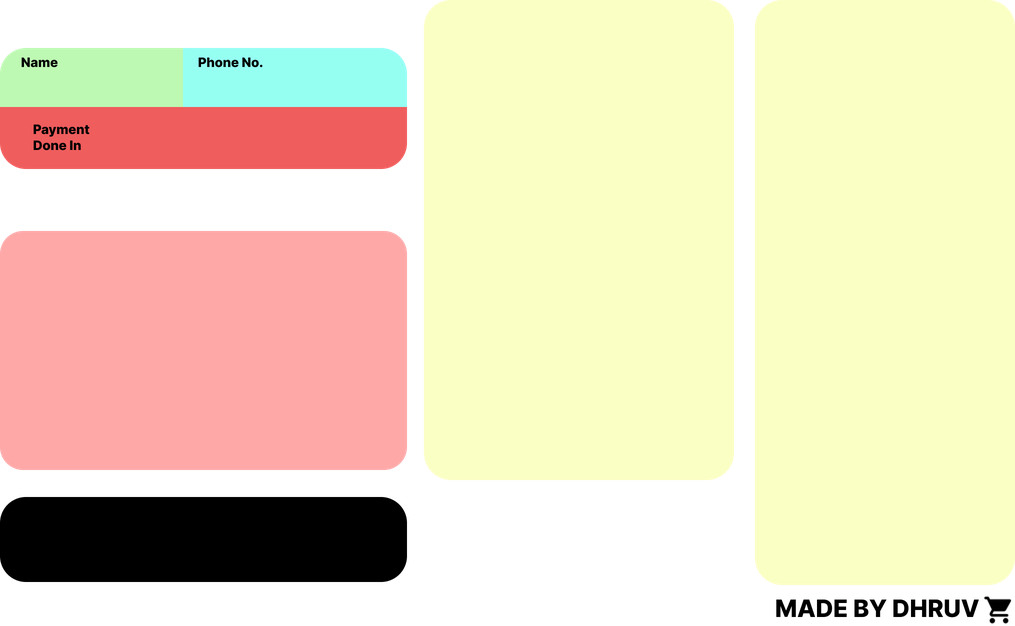
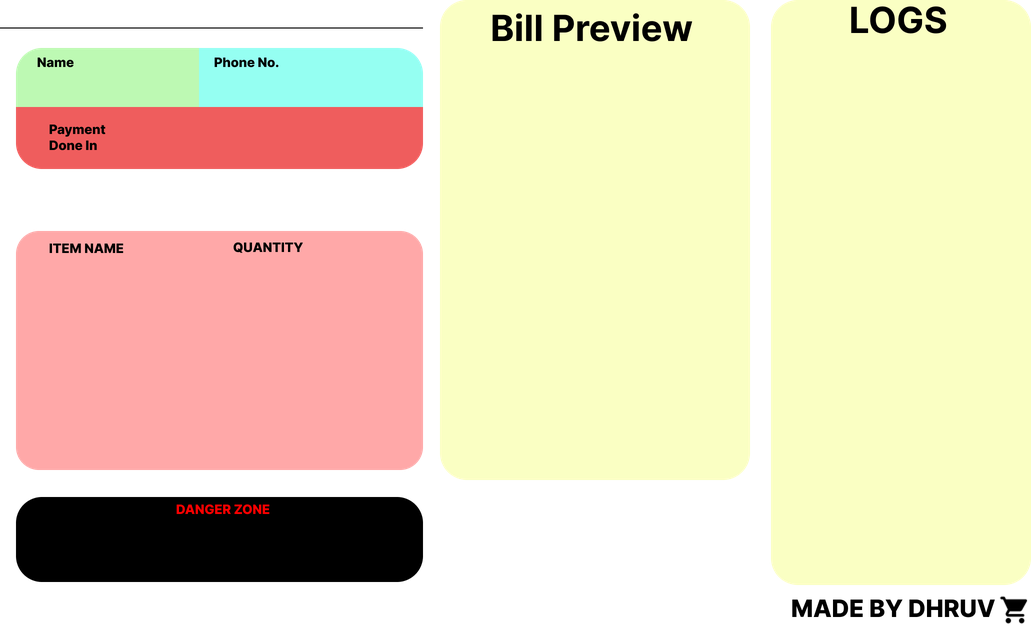
converted into new guis

diff --git a/The Shopperz.py b/The Shopperz.py
@@ -1,21 +1,12 @@
-
-# This file was generated by the Tkinter Designer by Parth Jadhav
-# https://github.com/ParthJadhav/Tkinter-Designer
-
-
 from pathlib import Path
-
-# from tkinter import *
-# Explicit imports to satisfy Flake8
 from tkinter import Tk, Canvas, Entry, Text, Button, PhotoImage
-
 
 OUTPUT_PATH = Path(__file__).parent
 ASSETS_PATH = OUTPUT_PATH / Path("./assets")
 
-
 def relative_to_assets(path: str) -> Path:
     return ASSETS_PATH / Path(path)
+
 
 
 window = Tk()
@@ -23,7 +14,7 @@ window = Tk()
 window.geometry("1049x646")
 window.configure(bg = "#DAD9D9")
 
-
+#Frame
 canvas = Canvas(
     window,
     bg = "#DAD9D9",
@@ -34,6 +25,7 @@ canvas = Canvas(
     relief = "ridge"
 )
 
+#Background Image
 canvas.place(x = 0, y = 0)
 image_image_1 = PhotoImage(
     file=relative_to_assets("image_1.png"))
@@ -43,10 +35,11 @@ image_1 = canvas.create_image(
     image=image_image_1
 )
 
+#Bill Viewer
 entry_image_1 = PhotoImage(
     file=relative_to_assets("entry_1.png"))
 entry_bg_1 = canvas.create_image(
-    595.0,
+    604.0,
     271.0,
     image=entry_image_1
 )
@@ -62,10 +55,11 @@ entry_1.place(
     height=420.0
 )
 
+#Logs
 entry_image_2 = PhotoImage(
     file=relative_to_assets("entry_2.png"))
 entry_bg_2 = canvas.create_image(
-    901.0,
+    909.0,
     323.0,
     image=entry_image_2
 )
@@ -81,23 +75,7 @@ entry_2.place(
     height=532.0
 )
 
-canvas.create_rectangle(
-    -1.0,
-    42.0,
-    423.0,
-    43.0,
-    fill="#000000",
-    outline="")
-
-canvas.create_text(
-    849.0,
-    13.0,
-    anchor="nw",
-    text="LOGS",
-    fill="#000000",
-    font=("Inter Bold", 36 * -1)
-)
-
+#quantity of item
 entry_image_3 = PhotoImage(
     file=relative_to_assets("entry_3.png"))
 entry_bg_3 = canvas.create_image(
@@ -117,6 +95,7 @@ entry_3.place(
     height=32.0
 )
 
+#todolist place area
 canvas.create_rectangle(
     37.0,
     316.0,
@@ -125,6 +104,7 @@ canvas.create_rectangle(
     fill="#D9D9D9",
     outline="")
 
+#item name
 entry_image_4 = PhotoImage(
     file=relative_to_assets("entry_4.png"))
 entry_bg_4 = canvas.create_image(
@@ -144,6 +124,7 @@ entry_4.place(
     height=32.0
 )
 
+#option menu place area
 canvas.create_text(
     251.0,
     144.0,
@@ -153,11 +134,12 @@ canvas.create_text(
     font=("Inter ExtraBold", 10 * -1)
 )
 
+#name of customer
 entry_image_5 = PhotoImage(
     file=relative_to_assets("entry_5.png"))
 entry_bg_5 = canvas.create_image(
-    105.5,
-    101.0,
+    159,
+    26,
     image=entry_image_5
 )
 entry_5 = Entry(
@@ -166,17 +148,18 @@ entry_5 = Entry(
     highlightthickness=0
 )
 entry_5.place(
-    x=26.0,
+    x=35.0,
     y=88.0,
     width=159.0,
     height=24.0
 )
 
+#Phone Number of customer
 entry_image_6 = PhotoImage(
     file=relative_to_assets("entry_6.png"))
 entry_bg_6 = canvas.create_image(
-    306.5,
-    101.0,
+    189,
+    26,
     image=entry_image_6
 )
 entry_6 = Entry(
@@ -185,12 +168,13 @@ entry_6 = Entry(
     highlightthickness=0
 )
 entry_6.place(
-    x=212.0,
+    x=220.0,
     y=88.0,
     width=189.0,
     height=24.0
 )
 
+#initialize bill gen button
 button_image_1 = PhotoImage(
     file=relative_to_assets("button_1.png"))
 button_1 = Button(
@@ -207,6 +191,7 @@ button_1.place(
     height=34.0
 )
 
+#about button
 button_image_2 = PhotoImage(
     file=relative_to_assets("button_2.png"))
 button_2 = Button(
@@ -223,6 +208,7 @@ button_2.place(
     height=32.0
 )
 
+#recent button
 button_image_3 = PhotoImage(
     file=relative_to_assets("button_3.png"))
 button_3 = Button(
@@ -239,6 +225,7 @@ button_3.place(
     height=32.0
 )
 
+#exit button
 button_image_4 = PhotoImage(
     file=relative_to_assets("button_4.png"))
 button_4 = Button(
@@ -255,6 +242,7 @@ button_4.place(
     height=32.0
 )
 
+#enter item button
 button_image_5 = PhotoImage(
     file=relative_to_assets("button_5.png"))
 button_5 = Button(
@@ -271,6 +259,7 @@ button_5.place(
     height=46.0
 )
 
+#clear item button
 button_image_6 = PhotoImage(
     file=relative_to_assets("button_6.png"))
 button_6 = Button(
@@ -287,6 +276,7 @@ button_6.place(
     height=46.0
 )
 
+#danger zone clear list button
 button_image_7 = PhotoImage(
     file=relative_to_assets("button_7.png"))
 button_7 = Button(
@@ -303,6 +293,7 @@ button_7.place(
     height=43.0
 )
 
+#generate bill button
 button_image_8 = PhotoImage(
     file=relative_to_assets("button_8.png"))
 button_8 = Button(
@@ -319,6 +310,7 @@ button_8.place(
     height=85.0
 )
 
+#save bill button
 button_image_9 = PhotoImage(
     file=relative_to_assets("button_9.png"))
 button_9 = Button(
@@ -335,6 +327,7 @@ button_9.place(
     height=85.0
 )
 
+#danger zone restart button
 button_image_10 = PhotoImage(
     file=relative_to_assets("button_10.png"))
 button_10 = Button(
@@ -351,40 +344,5 @@ button_10.place(
     height=43.0
 )
 
-canvas.create_text(
-    233.0,
-    254.0,
-    anchor="nw",
-    text="QUANTITY",
-    fill="#000000",
-    font=("Inter ExtraBold", 13 * -1)
-)
-
-canvas.create_text(
-    49.0,
-    255.0,
-    anchor="nw",
-    text="ITEM NAME",
-    fill="#000000",
-    font=("Inter ExtraBold", 13 * -1)
-)
-
-canvas.create_text(
-    176.0,
-    516.0,
-    anchor="nw",
-    text="DANGER ZONE",
-    fill="#FF0000",
-    font=("Inter ExtraBold", 13 * -1)
-)
-
-canvas.create_text(
-    482.0,
-    21.0,
-    anchor="nw",
-    text=" Bill Preview",
-    fill="#000000",
-    font=("Inter Bold", 36 * -1)
-)
 window.resizable(False, False)
 window.mainloop()

diff --git a/billOpen.py b/billOpen.py
@@ -3,7 +3,7 @@ from tkinter import Tk, Canvas, Entry, Text, Button, PhotoImage, filedialog, mes
 from cryptography.fernet import Fernet
 
 OUTPUT_PATH = Path(__file__).parent
-ASSETS_PATH = OUTPUT_PATH / Path("./IMG_Data/bill_assets")
+ASSETS_PATH = OUTPUT_PATH / Path("./assets/bill_assets")
 
 def relative_to_assets(path: str) -> Path:
     return ASSETS_PATH / Path(path)
@@ -19,7 +19,7 @@ def openFile():
         filetypes =(('Shopperz Files (Secure)','*.sprz'),('Text (Unsecure)', '*.txt'))
         )
     entry_3.insert(END, tf)
-x= open('IMG_Data/bill_assets/compiler', 'r')
+x= open('assets/bill_assets/compiler', 'r')
 code = x.read(12)
 akey = open('Bills/.temp','rb')
 key = akey.read()
